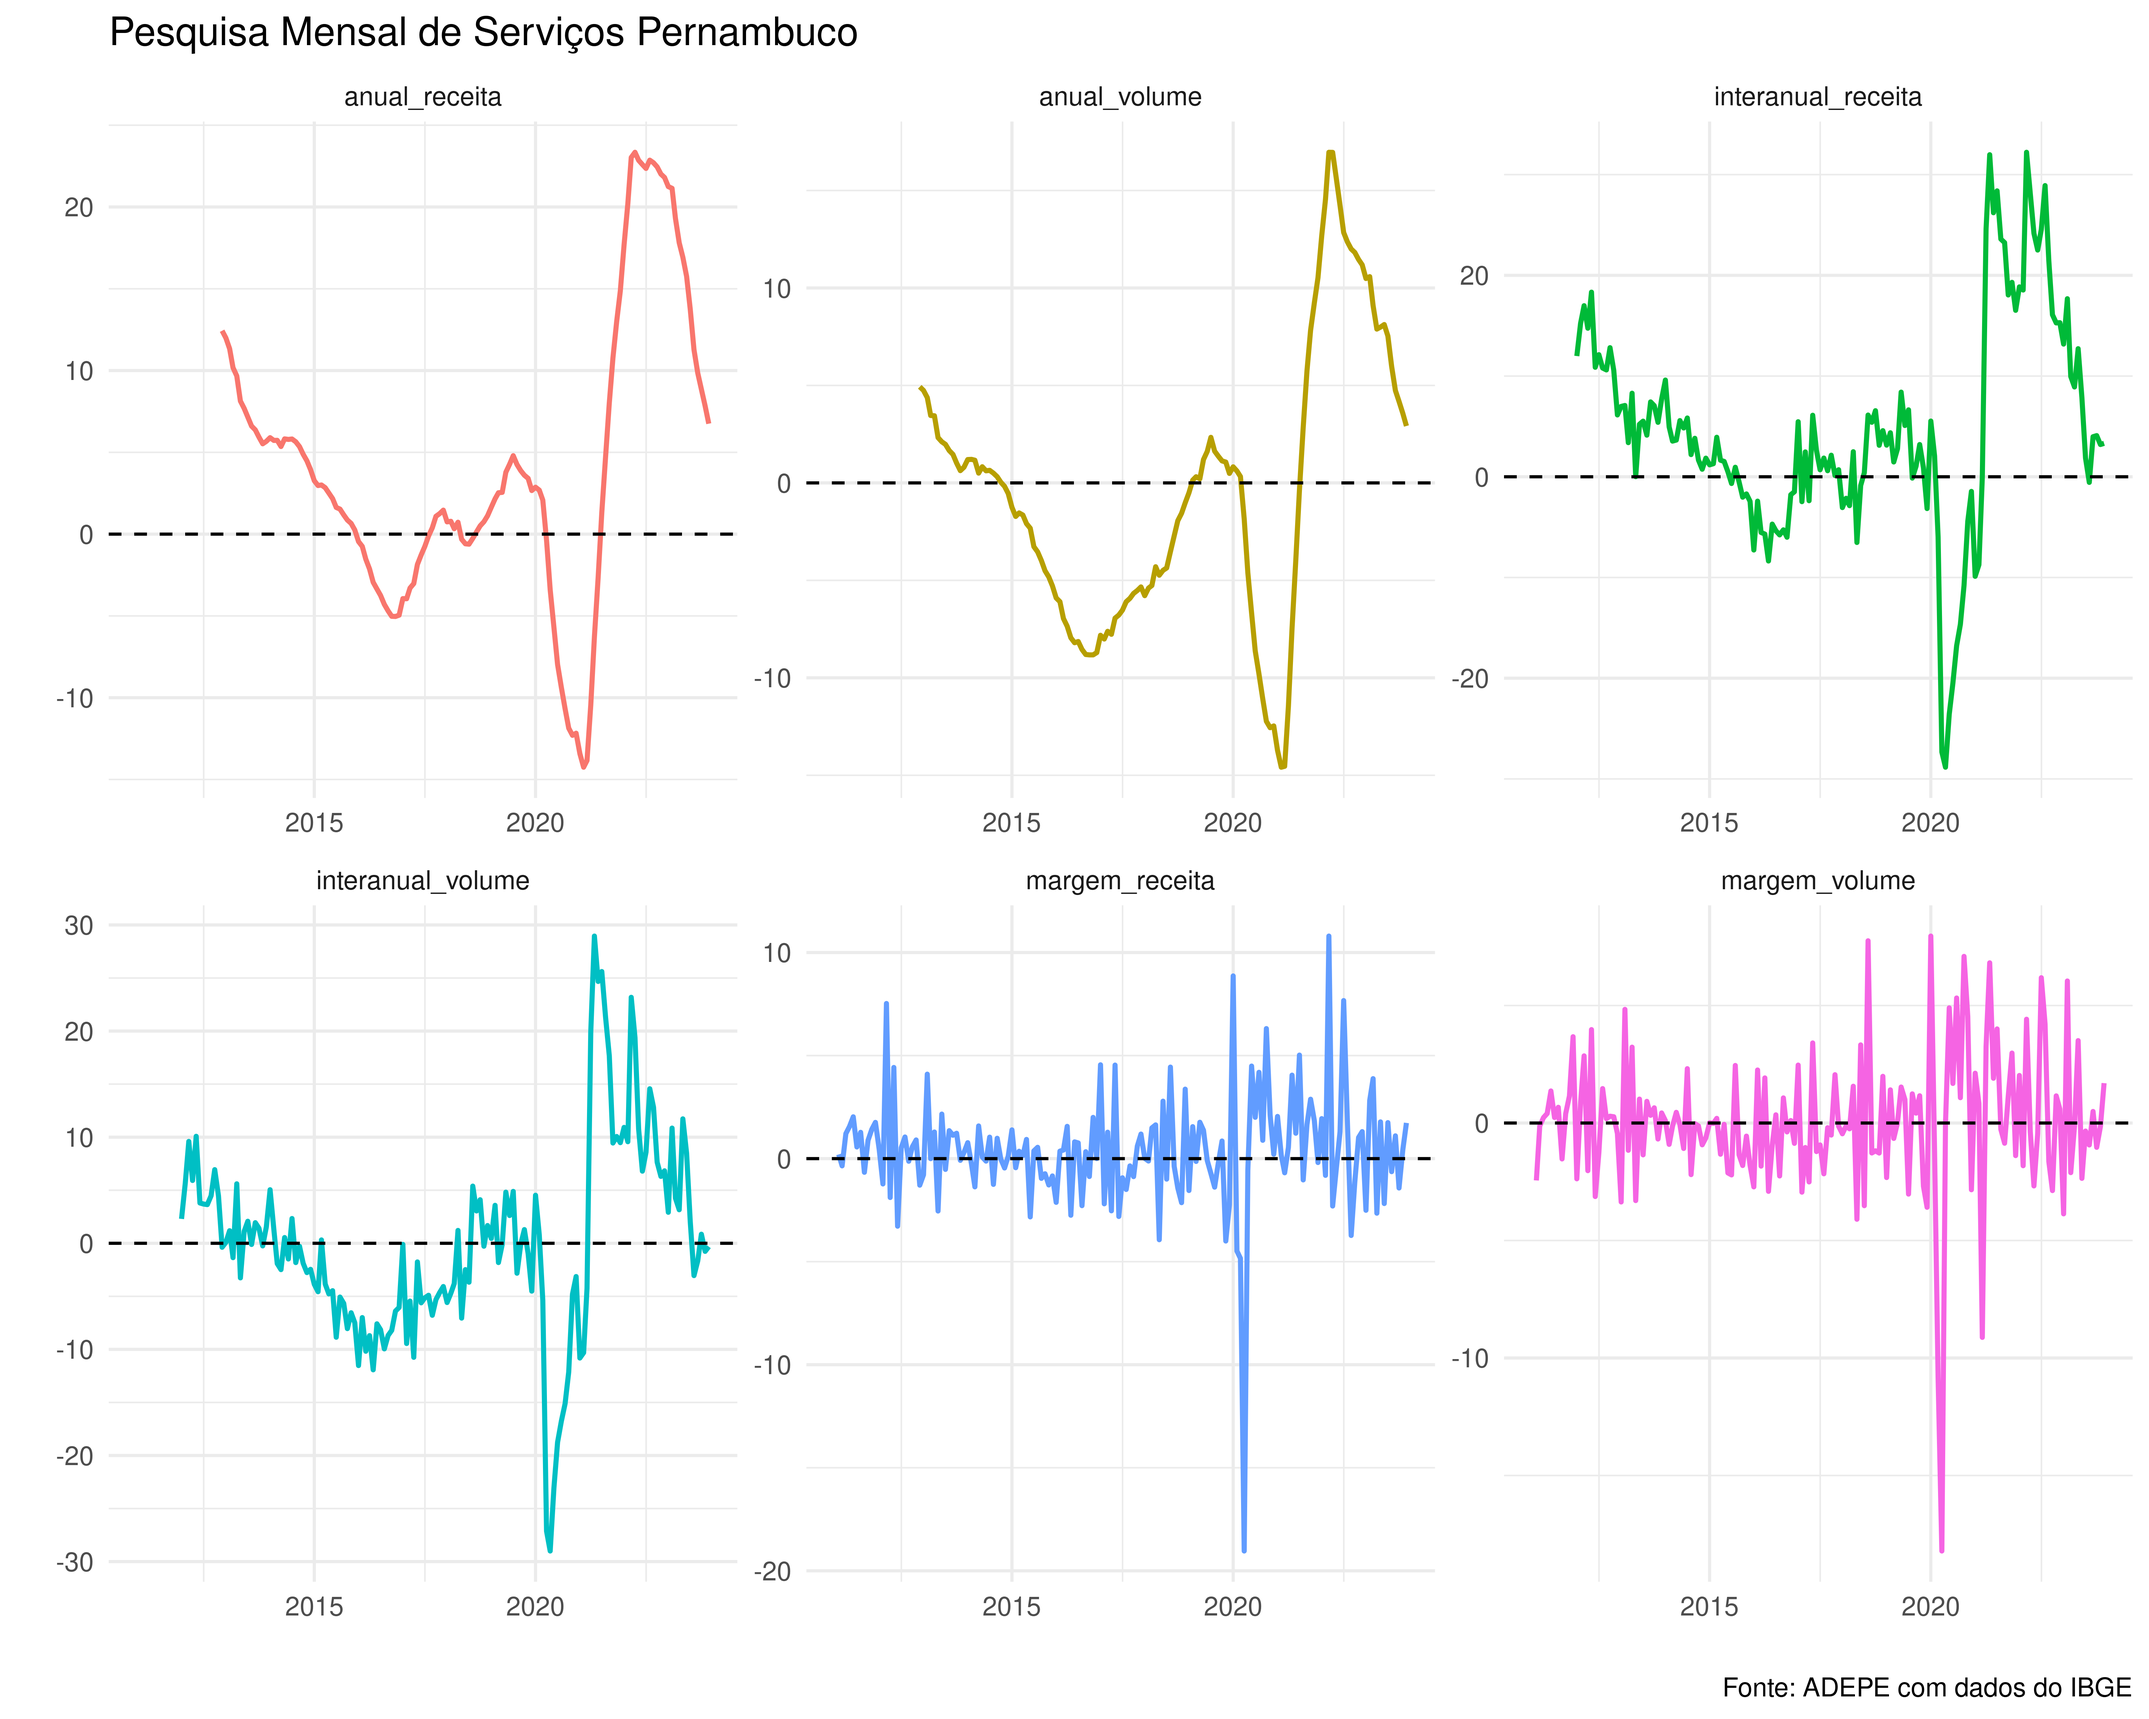
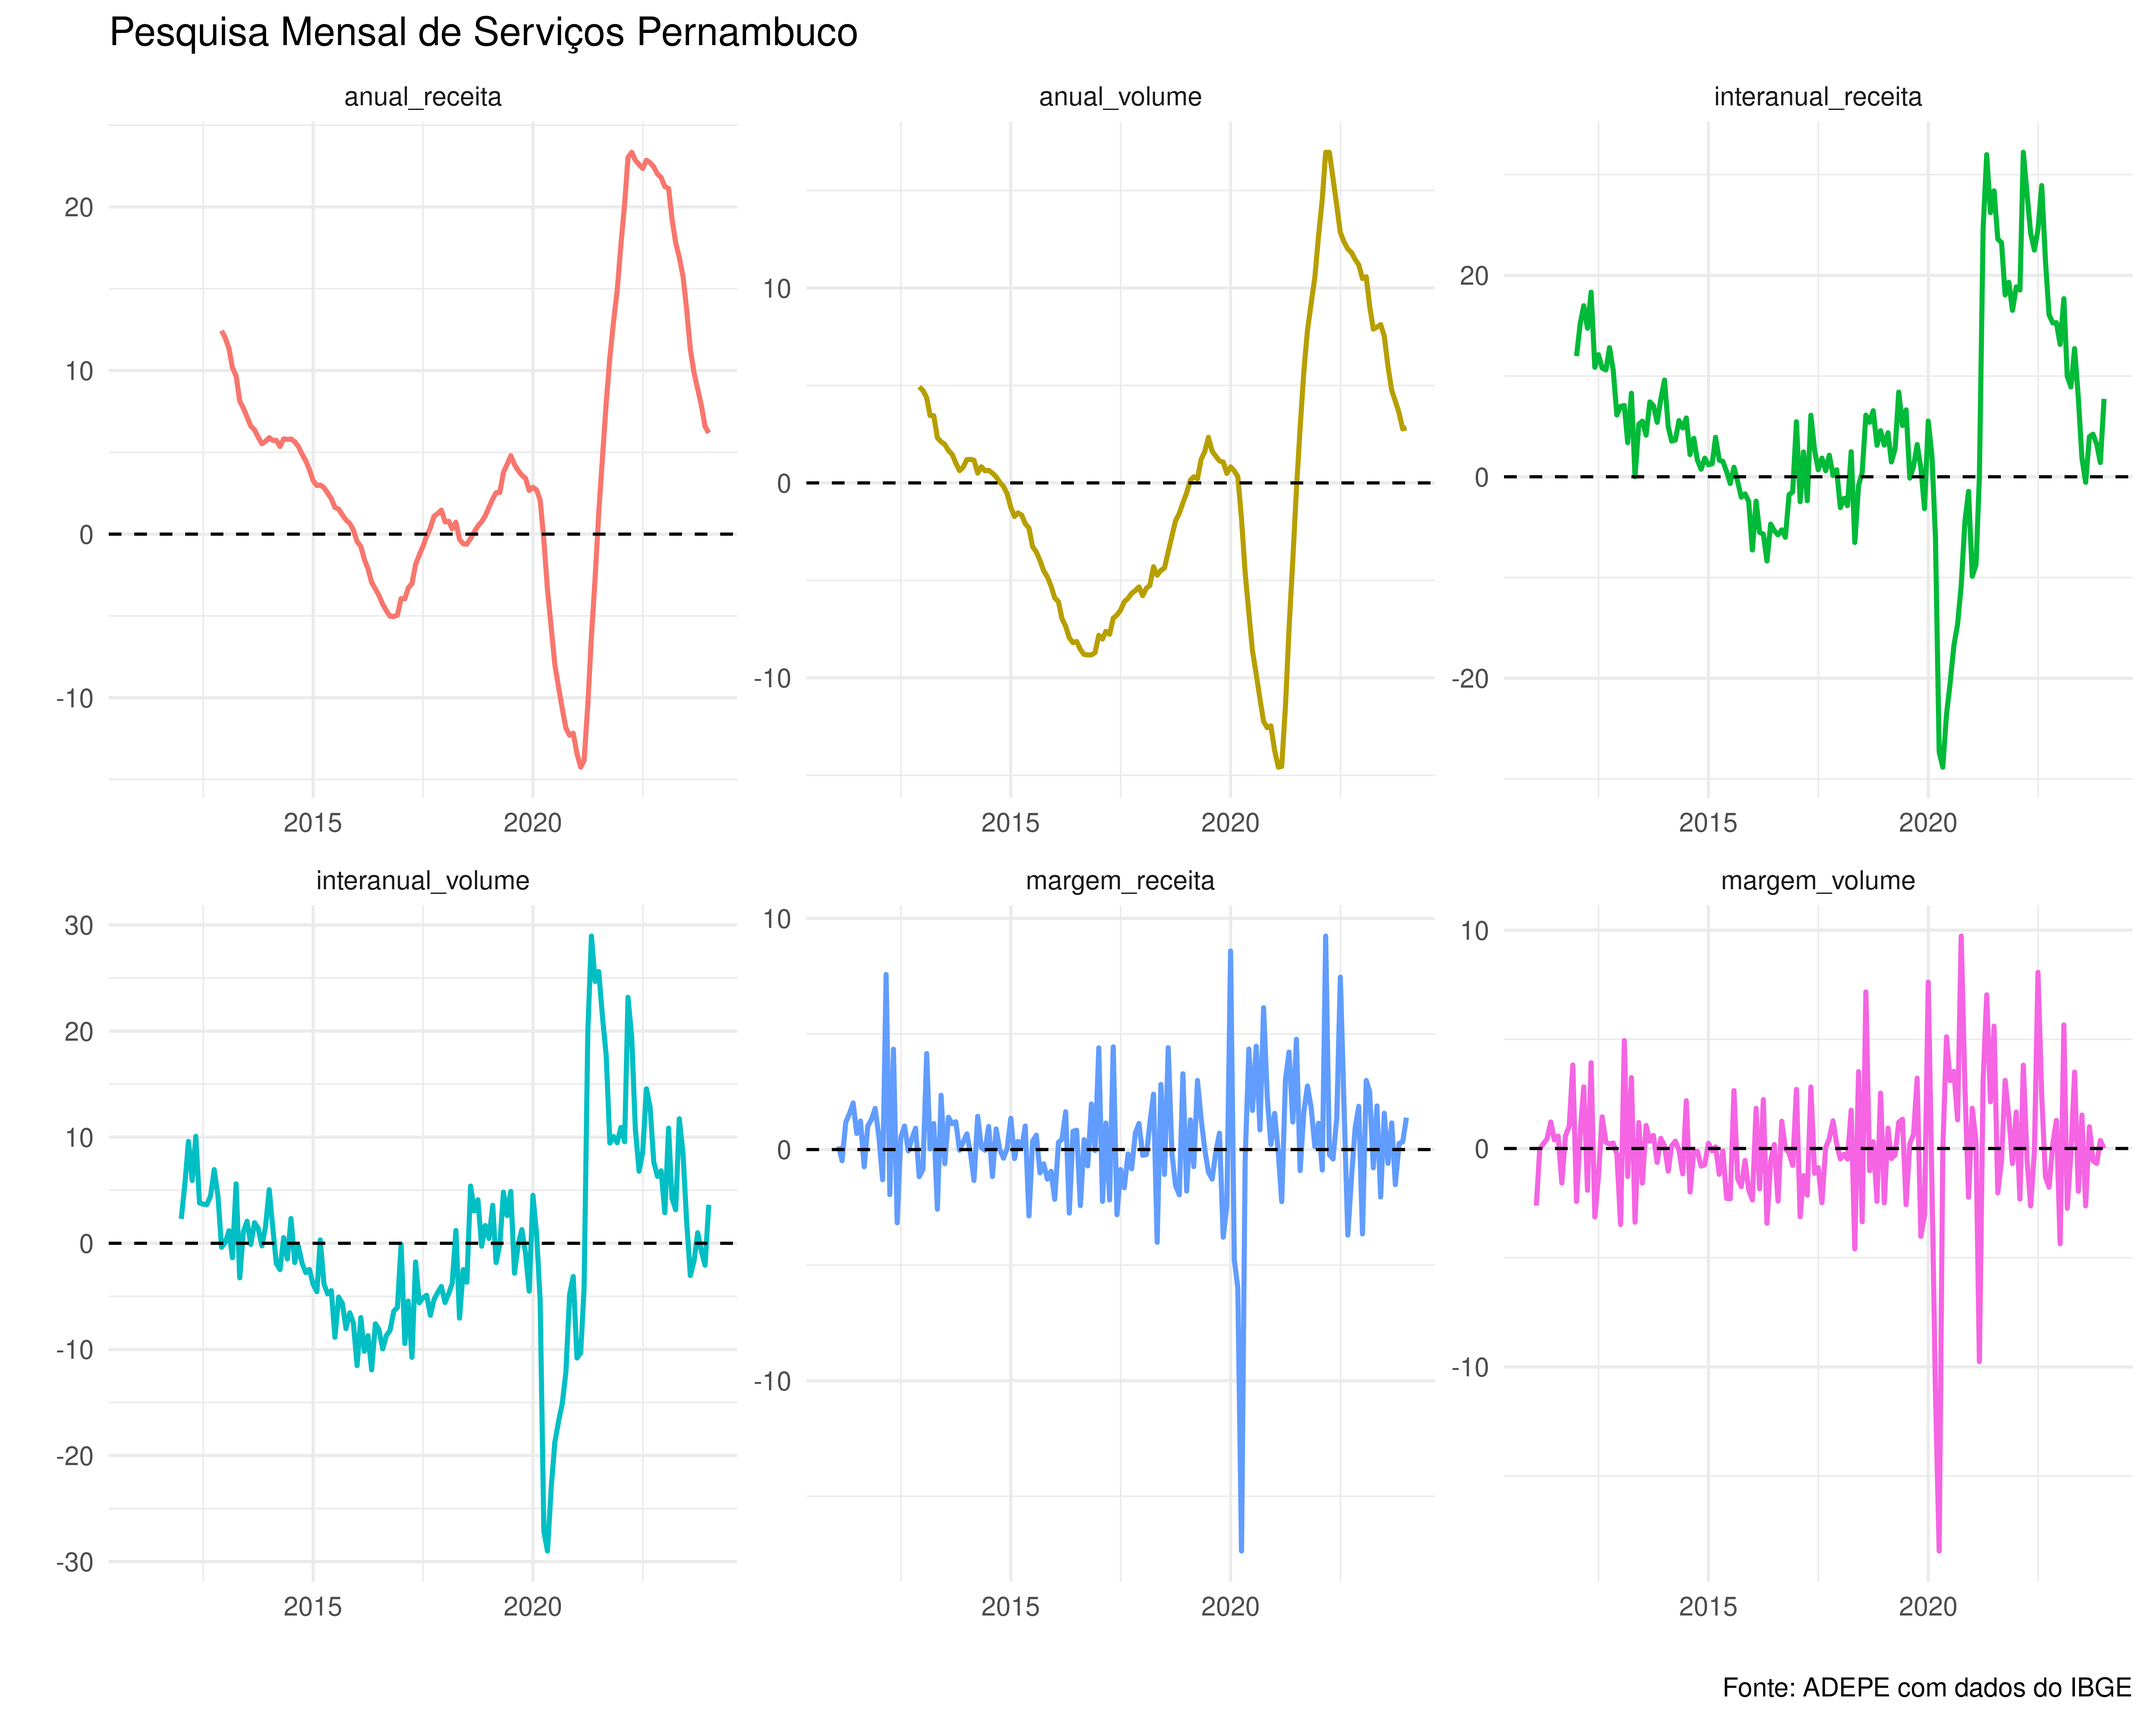
Atualização de relatório automatizada

diff --git a/pms/pms.html b/pms/pms.html
@@ -382,40 +382,40 @@ Núcleo de Dados <br><span style="font-size: 70%;">ADEPE<br><a href="https://git
 </thead>
 <tbody>
 <tr class="odd">
-<td style="text-align: left;">2023-07-01</td>
-<td style="text-align: right;">0.29</td>
-<td style="text-align: right;">4.84</td>
-<td style="text-align: right;">11.00</td>
-</tr>
-<tr class="even">
 <td style="text-align: left;">2023-08-01</td>
-<td style="text-align: right;">-0.47</td>
-<td style="text-align: right;">3.00</td>
-<td style="text-align: right;">9.78</td>
+<td style="text-align: right;">-0.41</td>
+<td style="text-align: right;">3.11</td>
+<td style="text-align: right;">9.81</td>
 </tr>
-<tr class="odd">
+<tr class="even">
 <td style="text-align: left;">2023-09-01</td>
-<td style="text-align: right;">1.10</td>
-<td style="text-align: right;">3.27</td>
-<td style="text-align: right;">8.70</td>
-</tr>
-<tr class="even">
-<td style="text-align: left;">2023-10-01</td>
-<td style="text-align: right;">-0.06</td>
-<td style="text-align: right;">3.99</td>
-<td style="text-align: right;">7.76</td>
+<td style="text-align: right;">1.13</td>
+<td style="text-align: right;">3.32</td>
+<td style="text-align: right;">8.74</td>
 </tr>
 <tr class="odd">
-<td style="text-align: left;">2023-11-01</td>
-<td style="text-align: right;">1.16</td>
-<td style="text-align: right;">5.69</td>
-<td style="text-align: right;">7.23</td>
+<td style="text-align: left;">2023-10-01</td>
+<td style="text-align: right;">-0.02</td>
+<td style="text-align: right;">4.11</td>
+<td style="text-align: right;">7.81</td>
 </tr>
 <tr class="even">
+<td style="text-align: left;">2023-11-01</td>
+<td style="text-align: right;">1.50</td>
+<td style="text-align: right;">5.76</td>
+<td style="text-align: right;">7.28</td>
+</tr>
+<tr class="odd">
 <td style="text-align: left;">2023-12-01</td>
-<td style="text-align: right;">-0.01</td>
-<td style="text-align: right;">2.83</td>
-<td style="text-align: right;">6.42</td>
+<td style="text-align: right;">-0.18</td>
+<td style="text-align: right;">2.94</td>
+<td style="text-align: right;">6.48</td>
+</tr>
+<tr class="even">
+<td style="text-align: left;">2024-01-01</td>
+<td style="text-align: right;">2.74</td>
+<td style="text-align: right;">8.78</td>
+<td style="text-align: right;">6.27</td>
 </tr>
 </tbody>
 </table>
@@ -437,40 +437,40 @@ Núcleo de Dados <br><span style="font-size: 70%;">ADEPE<br><a href="https://git
 </thead>
 <tbody>
 <tr class="odd">
-<td style="text-align: left;">2023-07-01</td>
-<td style="text-align: right;">0.64</td>
-<td style="text-align: right;">3.70</td>
-<td style="text-align: right;">6.00</td>
-</tr>
-<tr class="even">
 <td style="text-align: left;">2023-08-01</td>
-<td style="text-align: right;">-1.42</td>
-<td style="text-align: right;">0.65</td>
-<td style="text-align: right;">5.31</td>
+<td style="text-align: right;">-1.39</td>
+<td style="text-align: right;">0.76</td>
+<td style="text-align: right;">5.34</td>
 </tr>
-<tr class="odd">
+<tr class="even">
 <td style="text-align: left;">2023-09-01</td>
-<td style="text-align: right;">-0.19</td>
-<td style="text-align: right;">-1.11</td>
-<td style="text-align: right;">4.41</td>
-</tr>
-<tr class="even">
-<td style="text-align: left;">2023-10-01</td>
-<td style="text-align: right;">-0.55</td>
-<td style="text-align: right;">-0.29</td>
-<td style="text-align: right;">3.59</td>
+<td style="text-align: right;">-0.06</td>
+<td style="text-align: right;">-1.07</td>
+<td style="text-align: right;">4.45</td>
 </tr>
 <tr class="odd">
-<td style="text-align: left;">2023-11-01</td>
-<td style="text-align: right;">0.91</td>
-<td style="text-align: right;">0.44</td>
-<td style="text-align: right;">3.08</td>
+<td style="text-align: left;">2023-10-01</td>
+<td style="text-align: right;">-0.23</td>
+<td style="text-align: right;">-0.18</td>
+<td style="text-align: right;">3.63</td>
 </tr>
 <tr class="even">
+<td style="text-align: left;">2023-11-01</td>
+<td style="text-align: right;">0.50</td>
+<td style="text-align: right;">0.50</td>
+<td style="text-align: right;">3.12</td>
+</tr>
+<tr class="odd">
 <td style="text-align: left;">2023-12-01</td>
-<td style="text-align: right;">0.31</td>
-<td style="text-align: right;">-1.97</td>
-<td style="text-align: right;">2.34</td>
+<td style="text-align: right;">0.67</td>
+<td style="text-align: right;">-1.86</td>
+<td style="text-align: right;">2.40</td>
+</tr>
+<tr class="even">
+<td style="text-align: left;">2024-01-01</td>
+<td style="text-align: right;">0.71</td>
+<td style="text-align: right;">4.47</td>
+<td style="text-align: right;">2.36</td>
 </tr>
 </tbody>
 </table>
@@ -519,40 +519,40 @@ Núcleo de Dados <br><span style="font-size: 70%;">ADEPE<br><a href="https://git
 </thead>
 <tbody>
 <tr class="odd">
-<td style="text-align: left;">2023-07-01</td>
-<td style="text-align: right;">1.75</td>
-<td style="text-align: right;">1.86</td>
-<td style="text-align: right;">13.76</td>
-</tr>
-<tr class="even">
 <td style="text-align: left;">2023-08-01</td>
-<td style="text-align: right;">-0.63</td>
-<td style="text-align: right;">-0.56</td>
+<td style="text-align: right;">-0.60</td>
+<td style="text-align: right;">-0.55</td>
 <td style="text-align: right;">11.27</td>
 </tr>
-<tr class="odd">
+<tr class="even">
 <td style="text-align: left;">2023-09-01</td>
-<td style="text-align: right;">1.10</td>
+<td style="text-align: right;">1.15</td>
 <td style="text-align: right;">3.98</td>
 <td style="text-align: right;">9.85</td>
 </tr>
-<tr class="even">
+<tr class="odd">
 <td style="text-align: left;">2023-10-01</td>
-<td style="text-align: right;">-1.43</td>
-<td style="text-align: right;">4.09</td>
-<td style="text-align: right;">8.86</td>
+<td style="text-align: right;">-1.51</td>
+<td style="text-align: right;">4.22</td>
+<td style="text-align: right;">8.87</td>
+</tr>
+<tr class="even">
+<td style="text-align: left;">2023-11-01</td>
+<td style="text-align: right;">0.27</td>
+<td style="text-align: right;">3.23</td>
+<td style="text-align: right;">7.85</td>
 </tr>
 <tr class="odd">
-<td style="text-align: left;">2023-11-01</td>
-<td style="text-align: right;">0.42</td>
-<td style="text-align: right;">3.20</td>
-<td style="text-align: right;">7.83</td>
+<td style="text-align: left;">2023-12-01</td>
+<td style="text-align: right;">0.33</td>
+<td style="text-align: right;">1.41</td>
+<td style="text-align: right;">6.58</td>
 </tr>
 <tr class="even">
-<td style="text-align: left;">2023-12-01</td>
-<td style="text-align: right;">1.73</td>
-<td style="text-align: right;">3.32</td>
-<td style="text-align: right;">6.75</td>
+<td style="text-align: left;">2024-01-01</td>
+<td style="text-align: right;">1.38</td>
+<td style="text-align: right;">7.74</td>
+<td style="text-align: right;">6.19</td>
 </tr>
 </tbody>
 </table>
@@ -574,40 +574,40 @@ Núcleo de Dados <br><span style="font-size: 70%;">ADEPE<br><a href="https://git
 </thead>
 <tbody>
 <tr class="odd">
-<td style="text-align: left;">2023-07-01</td>
-<td style="text-align: right;">-0.34</td>
-<td style="text-align: right;">2.07</td>
-<td style="text-align: right;">7.54</td>
-</tr>
-<tr class="even">
 <td style="text-align: left;">2023-08-01</td>
-<td style="text-align: right;">-0.93</td>
-<td style="text-align: right;">-3.05</td>
+<td style="text-align: right;">-2.63</td>
+<td style="text-align: right;">-3.04</td>
 <td style="text-align: right;">5.97</td>
 </tr>
-<tr class="odd">
+<tr class="even">
 <td style="text-align: left;">2023-09-01</td>
-<td style="text-align: right;">0.49</td>
-<td style="text-align: right;">-1.66</td>
+<td style="text-align: right;">0.99</td>
+<td style="text-align: right;">-1.65</td>
 <td style="text-align: right;">4.74</td>
 </tr>
-<tr class="even">
+<tr class="odd">
 <td style="text-align: left;">2023-10-01</td>
-<td style="text-align: right;">-1.03</td>
-<td style="text-align: right;">0.85</td>
-<td style="text-align: right;">4.18</td>
+<td style="text-align: right;">-0.55</td>
+<td style="text-align: right;">0.99</td>
+<td style="text-align: right;">4.19</td>
+</tr>
+<tr class="even">
+<td style="text-align: left;">2023-11-01</td>
+<td style="text-align: right;">-0.69</td>
+<td style="text-align: right;">-0.74</td>
+<td style="text-align: right;">3.59</td>
 </tr>
 <tr class="odd">
-<td style="text-align: left;">2023-11-01</td>
-<td style="text-align: right;">-0.15</td>
-<td style="text-align: right;">-0.76</td>
-<td style="text-align: right;">3.57</td>
+<td style="text-align: left;">2023-12-01</td>
+<td style="text-align: right;">0.37</td>
+<td style="text-align: right;">-2.07</td>
+<td style="text-align: right;">2.77</td>
 </tr>
 <tr class="even">
-<td style="text-align: left;">2023-12-01</td>
-<td style="text-align: right;">1.70</td>
-<td style="text-align: right;">-0.32</td>
-<td style="text-align: right;">2.92</td>
+<td style="text-align: left;">2024-01-01</td>
+<td style="text-align: right;">0.00</td>
+<td style="text-align: right;">3.63</td>
+<td style="text-align: right;">2.83</td>
 </tr>
 </tbody>
 </table>
